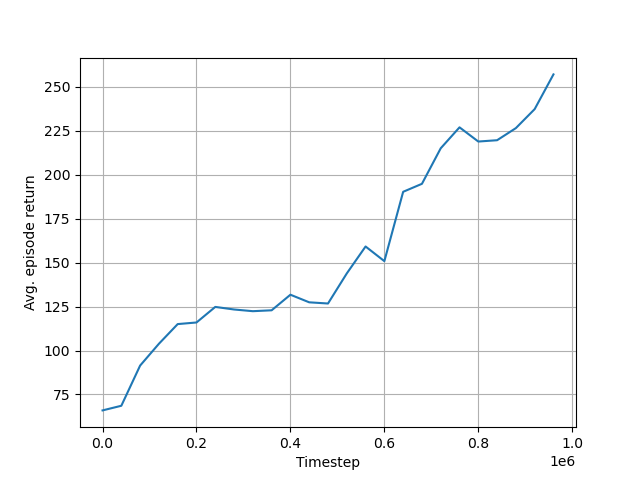
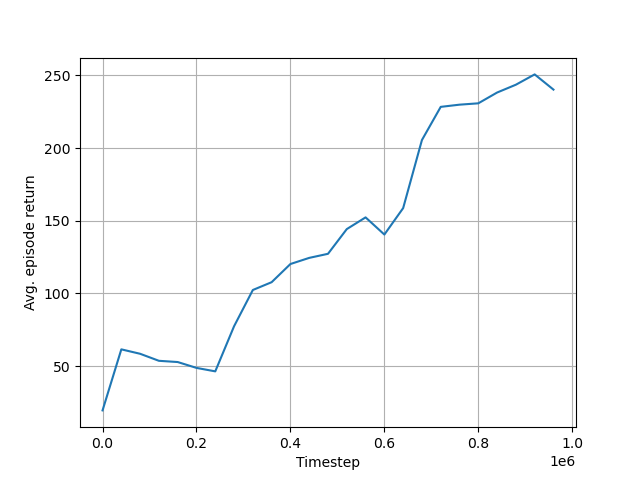
Fix calculations of average return for double precision

diff --git a/Agents/DDPG/ddpgagent.py b/Agents/DDPG/ddpgagent.py
@@ -236,7 +236,7 @@ class DDPGAgent(Agent):
                 epoch = (t + 1) // timesteps_per_epoch
 
                 if epoch % self.benchmark_interval == 0:
-                    self.avg_episode_returns.append(self.get_avg_episode_return(env))
+                    self.avg_episode_returns.append(self.get_avg_episode_return(env, double_precision=double_precision))
                 if epoch % self.save_model_interval == 0:
                     ac_path = 'trained_models/DDPG/{}_actor_critic_{}_epochs.pkl'.format(env_name, epoch)
                     torch.save(self.actor_critic.state_dict(), ac_path)

diff --git a/Agents/PPO/ppoagent.py b/Agents/PPO/ppoagent.py
@@ -290,7 +290,7 @@ class PPOAgent(Agent):
             self.update()
 
             if epoch % self.benchmark_interval == 0:
-                self.avg_episode_returns.append(self.get_avg_episode_return(env))
+                self.avg_episode_returns.append(self.get_avg_episode_return(env, double_precision=double_precision))
 
             if epoch % self.save_model_interval == 0:
                 # saving models
